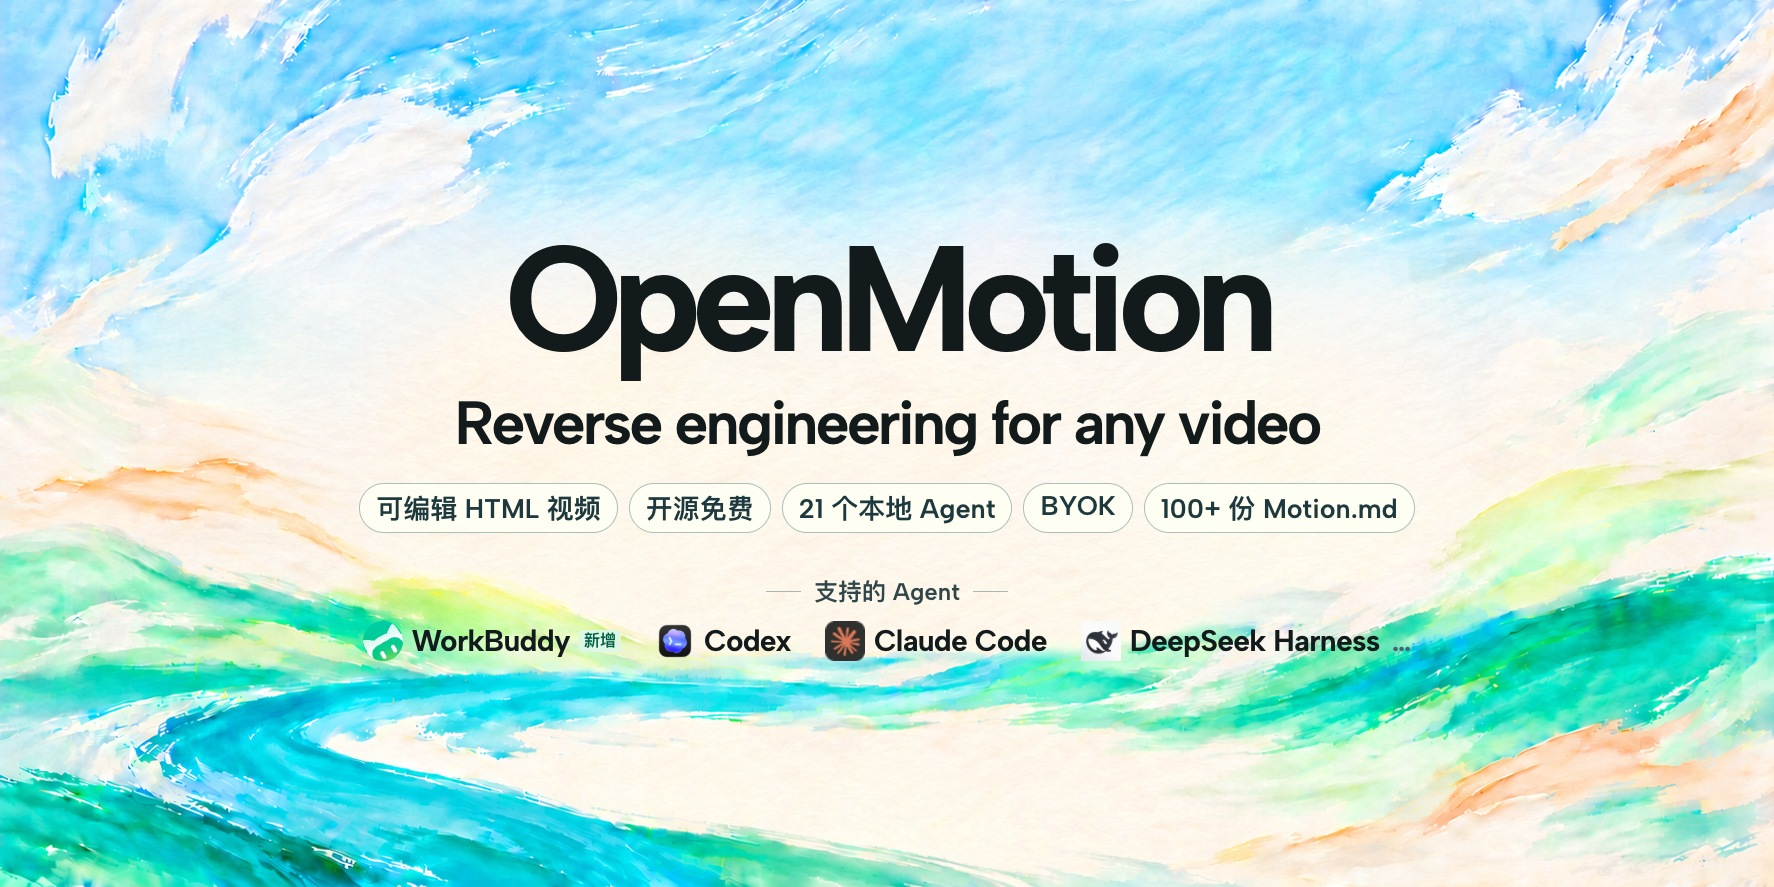
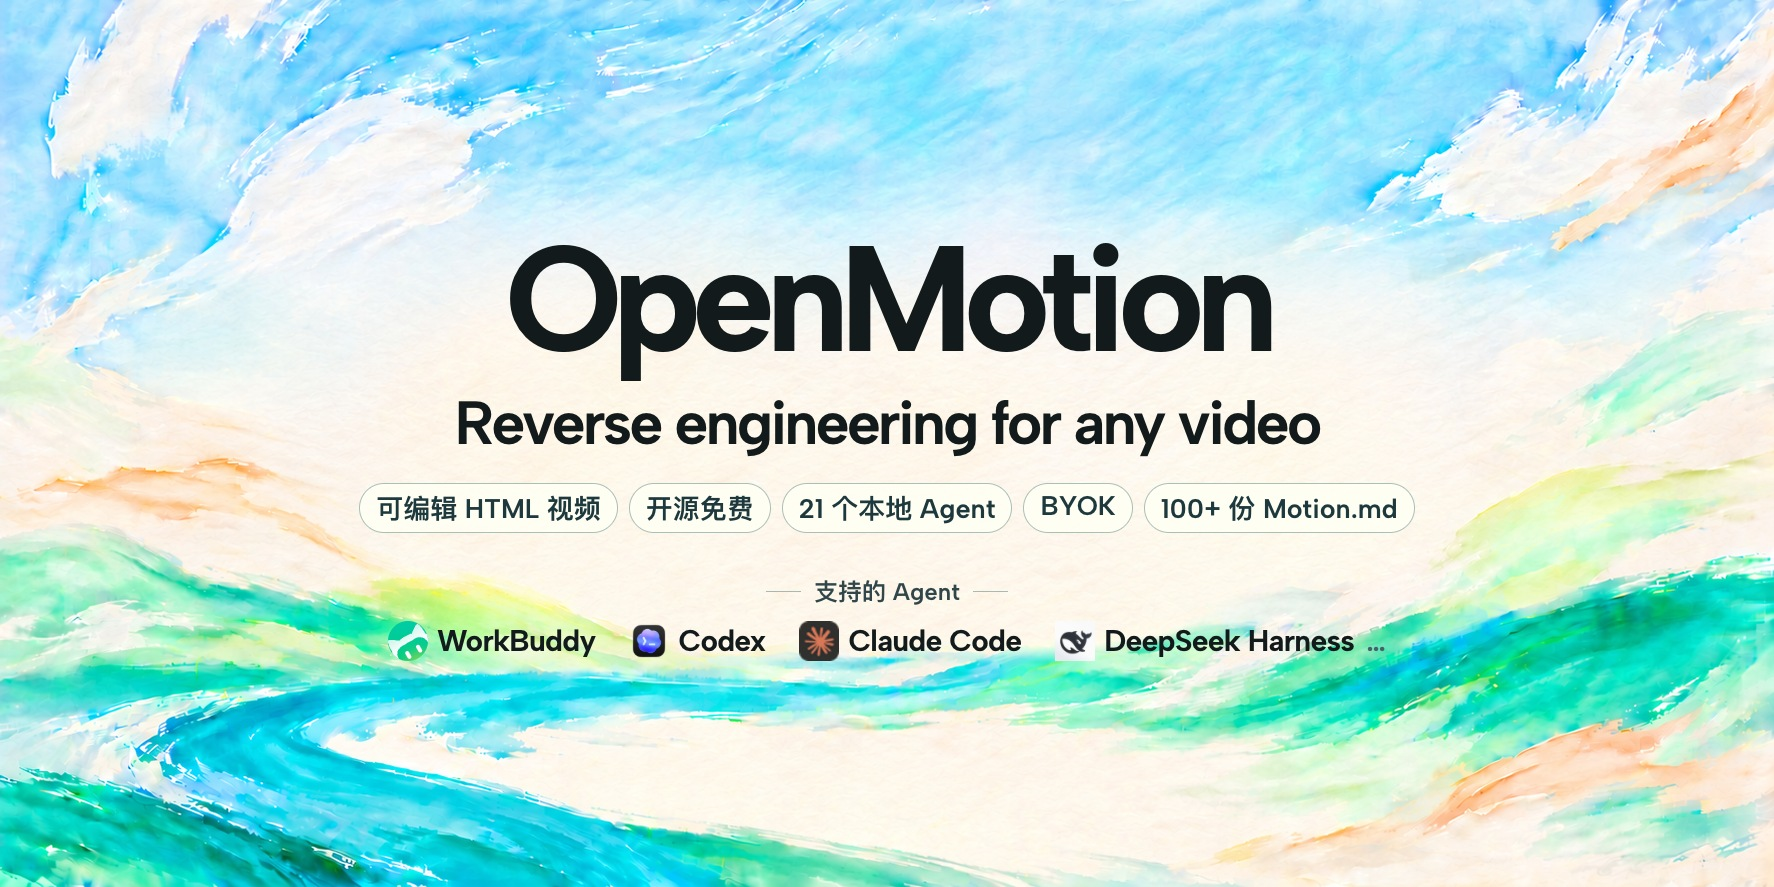
Remove the new label from WorkBuddy in README artwork

Changed region(s): [[0.186, 0.7001, 0.7751, 0.761]]

diff --git a/docs/readme/reverse-engineering-cover.md b/docs/readme/reverse-engineering-cover.md
@@ -2,7 +2,7 @@
 
 This is the source illustration for the [main README](../../README.md) cover. It preserves the current README's painterly visual family while introducing **Reverse engineering for any video**, the four media-generation categories, and **Publish to every platform**. The reverse-engineering draft is now the main introduction; the earlier artwork remains available as source history.
 
-The English and Chinese covers typeset **Editable HTML video · Open source · 21 local agents · BYOK · 100+ Motion.md** over the original unlettered watercolor. The cover highlights the addition of WorkBuddy and links to the full local agent gallery. [English cover](brand-hero.jpg) · [Chinese cover](brand-hero.zh-CN.jpg).
+The English and Chinese covers typeset **Editable HTML video · Open source · 21 local agents · BYOK · 100+ Motion.md** over the original unlettered watercolor. The cover shows four agent logos and links to the full local agent gallery. [English cover](brand-hero.jpg) · [Chinese cover](brand-hero.zh-CN.jpg).
 
 | Field | Value |
 | --- | --- |

diff --git a/docs/README.zh-CN.md b/docs/README.zh-CN.md
@@ -6,7 +6,7 @@
 
 <p align="center"><strong>Reverse engineering for any video</strong></p>
 
-<p align="center"><a href="#agent-wall"><picture><source media="(max-width: 600px)" srcset="readme/brand-hero.mobile.zh-CN.jpg"><img src="readme/brand-hero.zh-CN.jpg" width="100%" alt="OpenMotion · 可编辑 HTML 视频 · 开源免费 · 21 个本地 Agent · BYOK · 100+ 份 Motion.md。新增 WorkBuddy，查看全部 22 个本地 Agent。"></picture></a></p>
+<p align="center"><a href="#agent-wall"><picture><source media="(max-width: 600px)" srcset="readme/brand-hero.mobile.zh-CN.jpg"><img src="readme/brand-hero.zh-CN.jpg" width="100%" alt="OpenMotion · 可编辑 HTML 视频 · 开源免费 · 21 个本地 Agent · BYOK · 100+ 份 Motion.md。WorkBuddy、Codex、Claude Code 和 DeepSeek Harness 等。查看全部 22 个本地 Agent。"></picture></a></p>
 
 <p align="center">
   <a href="https://github.com/nexu-io/html-anything"><img src="readme/badges/stars.svg" alt="GitHub Stars · 9.5k（2026-11-09）"></a>

diff --git a/README.REVERSE-ENGINEERING.md b/README.REVERSE-ENGINEERING.md
@@ -4,7 +4,7 @@
 
 <p align="center"><strong>Reverse engineering for any video</strong></p>
 
-<p align="center"><a href="#agent-wall"><picture><source media="(max-width: 600px)" srcset="docs/readme/brand-hero.mobile.jpg"><img src="docs/readme/brand-hero.jpg" width="100%" alt="OpenMotion · Editable HTML video · Open source · 21 local agents · BYOK · 100+ Motion.md. WorkBuddy is the newest addition. Explore all 22 agents."></picture></a></p>
+<p align="center"><a href="#agent-wall"><picture><source media="(max-width: 600px)" srcset="docs/readme/brand-hero.mobile.jpg"><img src="docs/readme/brand-hero.jpg" width="100%" alt="OpenMotion · Editable HTML video · Open source · 21 local agents · BYOK · 100+ Motion.md. WorkBuddy, Codex, Claude Code and DeepSeek Harness. Explore all 22 agents."></picture></a></p>
 
 <p align="center">
   <a href="https://github.com/nexu-io/html-anything"><img src="docs/readme/badges/stars.svg" alt="GitHub Stars · 9.5k (2026-11-09)"></a>

diff --git a/README.md b/README.md
@@ -6,7 +6,7 @@
 
 <p align="center"><strong>Reverse engineering for any video</strong></p>
 
-<p align="center"><a href="#agent-wall"><picture><source media="(max-width: 600px)" srcset="docs/readme/brand-hero.mobile.jpg"><img src="docs/readme/brand-hero.jpg" width="100%" alt="OpenMotion · Editable HTML video · Open source · 21 local agents · BYOK · 100+ Motion.md. WorkBuddy is the newest addition. Explore all 22 agents."></picture></a></p>
+<p align="center"><a href="#agent-wall"><picture><source media="(max-width: 600px)" srcset="docs/readme/brand-hero.mobile.jpg"><img src="docs/readme/brand-hero.jpg" width="100%" alt="OpenMotion · Editable HTML video · Open source · 21 local agents · BYOK · 100+ Motion.md. WorkBuddy, Codex, Claude Code and DeepSeek Harness. Explore all 22 agents."></picture></a></p>
 
 <p align="center">
   <a href="https://github.com/nexu-io/html-anything"><img src="docs/readme/badges/stars.svg" alt="GitHub Stars · 9.5k (2026-11-09)"></a>
